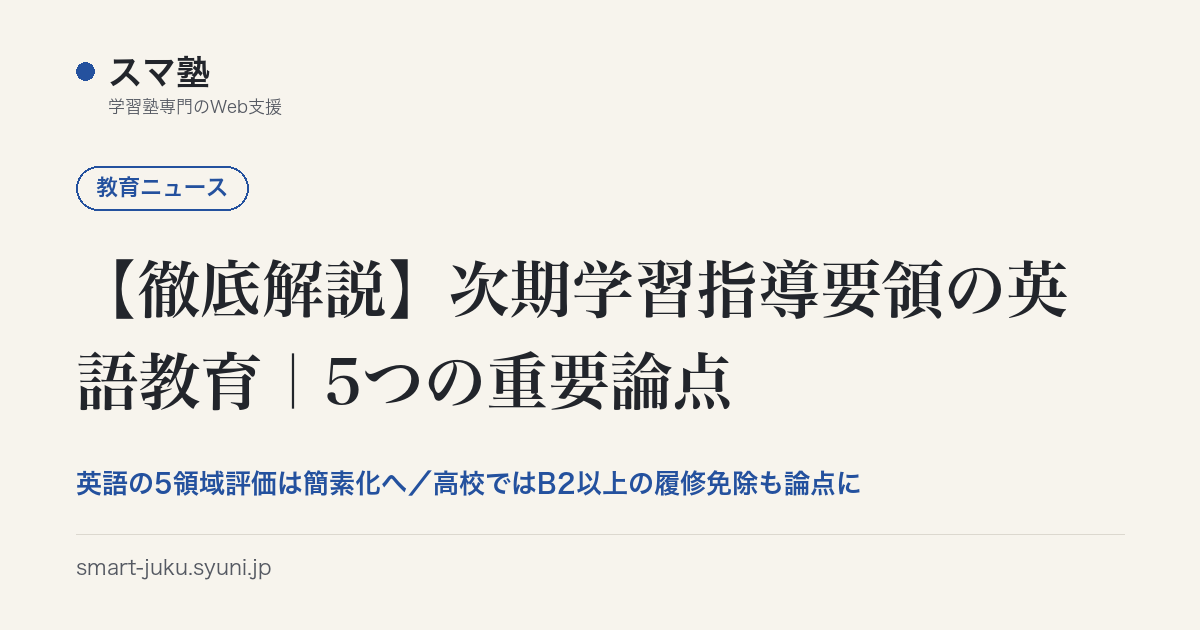
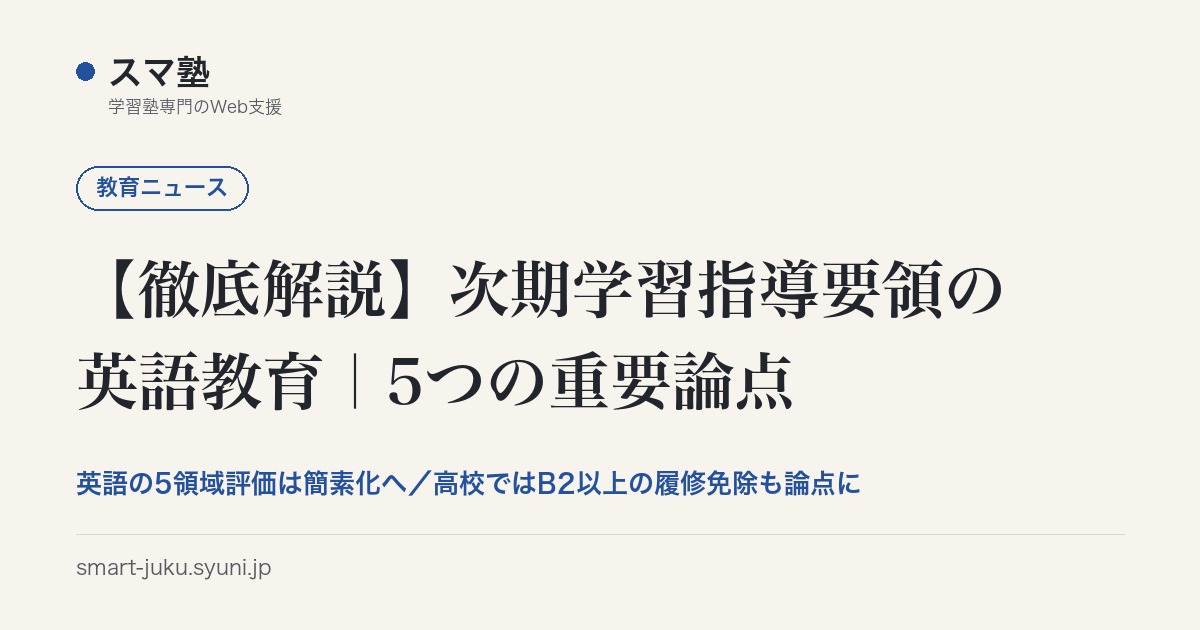
change: 統合レポートのタイトルをシリーズ名に揃える
「学習塾82塾のホームページ診断まとめ」→
「学習塾ホームページ実態調査 ── 累計82塾（2026年7〜8月）」

理由は2つ。
1. 7月版が「学習塾40塾のホームページ実態調査」なのに、ここだけ「診断まとめ」で
   シリーズから外れていた。「まとめ」は他記事の要約ページに読めるが、実際は一次データで、
   これから引用の出典になるページなので損をする。
2. このページは塾数が増えるたびに更新する。数字を主題に置くと、
   先に引用してくれた記述と食い違う。数字は副題に置いた。

区切りは ｜ ではなく ── にした。<title> の末尾に「｜スマ塾」が付くため、
｜ だと区切りが二重になる。

あわせて make_ogp の折り返しに禁則を追加。行末が漢字1文字で次行の先頭も漢字なら、
その1文字を次行へ送る（「累／計」のような割れを防ぐ）。OGP46枚を再生成し、
右端に文字がかかっていないことを全点検で確認した。

Changed region(s): [[0.0617, 0.5429, 0.6783, 0.6635], [0.8325, 0.4222, 0.8942, 0.5127]]

diff --git a/report/juku-hp-shindan-matome.html b/report/juku-hp-shindan-matome.html
@@ -4,7 +4,7 @@
 <meta charset="UTF-8">
 <meta name="viewport" content="width=device-width, initial-scale=1.0">
 
-<title>学習塾82塾のホームページ診断まとめ（2026年7〜8月）｜スマ塾</title>
+<title>学習塾ホームページ実態調査 ── 累計82塾（2026年7〜8月）｜スマ塾</title>
 <meta name="description" content="2026年7月13日から8月18日にかけて、学習塾82塾のホームページを1件ずつ診断した集計です。課題があった塾がいちばん多かったのは「検索とAIでの見つかりやすさ」で63.6%。一方でスマホ表示（18.3%）と料金の記載（15.9%）は、ほとんどの塾ができていました。見た目を整える段階は終わり、見つけてもらう段階が手つかず、という構図です。数値は自由に引用いただけます。">
 <meta name="robots" content="index, follow">
 
@@ -17,7 +17,7 @@
 <!-- OGP -->
 <meta property="og:type" content="article">
 <meta property="og:site_name" content="スマ塾｜学習塾専門のWeb支援">
-<meta property="og:title" content="学習塾82塾のホームページ診断まとめ（2026年7〜8月）">
+<meta property="og:title" content="学習塾ホームページ実態調査 ── 累計82塾（2026年7〜8月）">
 <meta property="og:description" content="2026年7月13日から8月18日にかけて、学習塾82塾のホームページを1件ずつ診断した集計です。課題があった塾がいちばん多かったのは「検索とAIでの見つかりやすさ」で63.6%。一方でスマホ表示（18.3%）と料金の記載（15.9%）は、ほとんどの塾ができていました。見た目を整える段階は終わり、見つけてもらう段階が手つかず、という構図です。数値は自由に引用いただけます。">
 <meta property="og:url" content="https://smart-juku.syuni.jp/report/juku-hp-shindan-matome.html">
 <meta property="og:image" content="https://smart-juku.syuni.jp/assets/ogp/report-juku-hp-shindan-matome.png">
@@ -62,7 +62,7 @@
 {
   "@context": "https://schema.org",
   "@type": "Article",
-  "headline": "学習塾82塾のホームページ診断まとめ（2026年7〜8月）",
+  "headline": "学習塾ホームページ実態調査 ── 累計82塾（2026年7〜8月）",
   "description": "2026年7月13日から8月18日にかけて、学習塾82塾のホームページを1件ずつ診断した集計です。課題があった塾がいちばん多かったのは「検索とAIでの見つかりやすさ」で63.6%。一方でスマホ表示（18.3%）と料金の記載（15.9%）は、ほとんどの塾ができていました。見た目を整える段階は終わり、見つけてもらう段階が手つかず、という構図です。数値は自由に引用いただけます。",
   "datePublished": "2026-08-18",
   "dateModified": "2026-08-18",
@@ -92,7 +92,7 @@
   "itemListElement": [
     { "@type": "ListItem", "position": 1, "name": "ホーム", "item": "https://smart-juku.syuni.jp/" },
     { "@type": "ListItem", "position": 2, "name": "調査レポート", "item": "https://smart-juku.syuni.jp/report/" },
-    { "@type": "ListItem", "position": 3, "name": "学習塾82塾のホームページ診断まとめ（2026年7〜8月）" }
+    { "@type": "ListItem", "position": 3, "name": "学習塾ホームページ実態調査 ── 累計82塾（2026年7〜8月）" }
   ]
 }
 </script>
@@ -154,7 +154,7 @@
       <ol>
         <li><a href="/">ホーム</a></li>
         <li><a href="/report/">調査レポート</a></li>
-        <li>学習塾82塾のホームページ診断まとめ（2026年7〜8月）</li>
+        <li>学習塾ホームページ実態調査 ── 累計82塾（2026年7〜8月）</li>
       </ol>
     </nav>
 
@@ -164,7 +164,7 @@
           <span class="post-cat cat-report">調査レポート</span>
           <time datetime="2026-08-18">2026年8月18日</time>
         </div>
-        <h1 class="article-title">学習塾82塾のホームページ診断まとめ（2026年7〜8月）</h1>
+        <h1 class="article-title">学習塾ホームページ実態調査 ── 累計82塾（2026年7〜8月）</h1>
         <p class="article-lede">学習塾82塾のホームページを1件ずつ診断しました。結果は<b>きれいに二分</b>しています。スマホ表示や料金の記載は9割近い塾ができている一方、<b>検索とAIでの見つかりやすさ（63.6%）</b>、<b>Googleマップ（51.5%）</b>、<b>情報の鮮度（40.2%）</b>に課題が集中しました。集計値は自由に引用いただけます。</p>
       </header>
 
@@ -295,12 +295,12 @@
 
         <div class="citation">
           <strong>この記事の数値は自由に引用いただけます。</strong>引用の際は、出典として本ページのURLを明記してください。
-          <span class="cite-example">出典：スマ塾「学習塾82塾のホームページ診断まとめ（2026年7〜8月）」https://smart-juku.syuni.jp/report/juku-hp-shindan-matome.html</span>
+          <span class="cite-example">出典：スマ塾「学習塾ホームページ実態調査 ── 累計82塾（2026年7〜8月）」https://smart-juku.syuni.jp/report/juku-hp-shindan-matome.html</span>
         </div>
         <div class="share">
           <p class="share-label">この記事を共有する</p>
           <div class="share-btns">
-            <a class="share-btn sb-x" href="https://x.com/intent/post?text=%E5%AD%A6%E7%BF%92%E5%A1%BE82%E5%A1%BE%E3%81%AE%E3%83%9B%E3%83%BC%E3%83%A0%E3%83%9A%E3%83%BC%E3%82%B8%E8%A8%BA%E6%96%AD%E3%81%BE%E3%81%A8%E3%82%81%EF%BC%882026%E5%B9%B47%E3%80%9C8%E6%9C%88%EF%BC%89&amp;url=https%3A%2F%2Fsmart-juku.syuni.jp%2Freport%2Fjuku-hp-shindan-matome.html" target="_blank" rel="noopener noreferrer"><span class="sv-dot"></span>X</a>
+            <a class="share-btn sb-x" href="https://x.com/intent/post?text=%E5%AD%A6%E7%BF%92%E5%A1%BE%E3%83%9B%E3%83%BC%E3%83%A0%E3%83%9A%E3%83%BC%E3%82%B8%E5%AE%9F%E6%85%8B%E8%AA%BF%E6%9F%BB%20%E2%94%80%E2%94%80%20%E7%B4%AF%E8%A8%8882%E5%A1%BE%EF%BC%882026%E5%B9%B47%E3%80%9C8%E6%9C%88%EF%BC%89&amp;url=https%3A%2F%2Fsmart-juku.syuni.jp%2Freport%2Fjuku-hp-shindan-matome.html" target="_blank" rel="noopener noreferrer"><span class="sv-dot"></span>X</a>
             <a class="share-btn sb-line" href="https://social-plugins.line.me/lineit/share?url=https%3A%2F%2Fsmart-juku.syuni.jp%2Freport%2Fjuku-hp-shindan-matome.html" target="_blank" rel="noopener noreferrer"><span class="sv-dot"></span>LINE</a>
             <a class="share-btn sb-fb" href="https://www.facebook.com/sharer/sharer.php?u=https%3A%2F%2Fsmart-juku.syuni.jp%2Freport%2Fjuku-hp-shindan-matome.html" target="_blank" rel="noopener noreferrer"><span class="sv-dot"></span>Facebook</a>
             <button class="share-btn sb-copy" type="button" data-url="https://smart-juku.syuni.jp/report/juku-hp-shindan-matome.html"><span class="sv-dot"></span><span class="sb-text">リンクをコピー</span></button>

diff --git a/report/index.html b/report/index.html
@@ -58,7 +58,7 @@
   "@type": "ItemList",
   "name": "調査レポート",
   "itemListElement": [
-      { "@type": "ListItem", "position": 1, "url": "https://smart-juku.syuni.jp/report/juku-hp-shindan-matome.html", "name": "学習塾82塾のホームページ診断まとめ（2026年7〜8月）" },
+      { "@type": "ListItem", "position": 1, "url": "https://smart-juku.syuni.jp/report/juku-hp-shindan-matome.html", "name": "学習塾ホームページ実態調査 ── 累計82塾（2026年7〜8月）" },
       { "@type": "ListItem", "position": 2, "url": "https://smart-juku.syuni.jp/report/juku-shindan-osaka-2026-08.html", "name": "大阪府の学習塾28塾を診断しました（2026年8月）──Googleマップと、AIから見た読み取りやすさ" },
       { "@type": "ListItem", "position": 3, "url": "https://smart-juku.syuni.jp/report/juku-hp-shindan-2026-07.html", "name": "学習塾40塾のホームページ実態調査（2026年7月）" }
   ]
@@ -100,7 +100,7 @@
           <div class="post-meta">
             <time datetime="2026-08-18">2026年8月18日</time>
           </div>
-          <h2>学習塾82塾のホームページ診断まとめ（2026年7〜8月）</h2>
+          <h2>学習塾ホームページ実態調査 ── 累計82塾（2026年7〜8月）</h2>
           <p>2026年7月13日から8月18日にかけて、学習塾82塾のホームページを1件ずつ診断した集計です。課題があった塾がいちばん多かったのは「検索とAIでの見つかりやすさ」で63.6%。一方でスマホ表示（18.3%）と料金の記載（15.9%）は、ほとんどの塾ができていました。見た目を整える段階は終わり、見つけてもらう段階が手つかず、という構図です。数値は自由に引用いただけます。</p>
         </a>
         <a class="post-item" href="/report/juku-shindan-osaka-2026-08.html">

diff --git a/index.html b/index.html
@@ -1004,7 +1004,7 @@ footer{background:var(--ink);color:rgba(247,244,237,.78);padding:64px 0 34px;fon
               <span class="read-cat">調査レポート</span>
               <time datetime="2026-08-18">2026年8月18日</time>
             </div>
-            <h3>学習塾82塾のホームページ診断まとめ（2026年7〜8月）</h3>
+            <h3>学習塾ホームページ実態調査 ── 累計82塾（2026年7〜8月）</h3>
             <p>2026年7月13日から8月18日にかけて、学習塾82塾のホームページを1件ずつ診断した集計です。課題があった塾がいちばん多かったのは「検索とAIでの見つかりやすさ」で63.6%。一方でスマホ表示（18.3%）と料金の記載（15.9%）は、ほとんどの塾ができていました。見た目を整える段階は終わり、見つけてもらう段階が手つかず、という構図です。数値は自由に引用いただけます。</p>
           </a>
           <a class="read-item rv" data-cat="news" href="/news/adjusted-class-hours.html">

diff --git a/scripts/make_ogp.py b/scripts/make_ogp.py
@@ -78,6 +78,16 @@ def _wrap(text: str, font, max_width: int, draw) -> list[str]:
             cur = ch
     if cur:
         lines.append(cur)
+
+    # 熟語が「累／計」のように1文字で割れると目につく。
+    # 行末が漢字1文字で、次行の先頭も漢字なら、その1文字を次行へ送る。
+    def _kanji(c: str) -> bool:
+        return "\u4e00" <= c <= "\u9fff"
+
+    for i in range(len(lines) - 1):
+        a, b = lines[i], lines[i + 1]
+        if len(a) >= 2 and _kanji(a[-1]) and b and _kanji(b[0]) and not _kanji(a[-2]):
+            lines[i], lines[i + 1] = a[:-1].rstrip(), a[-1] + b
     return lines
 
 
